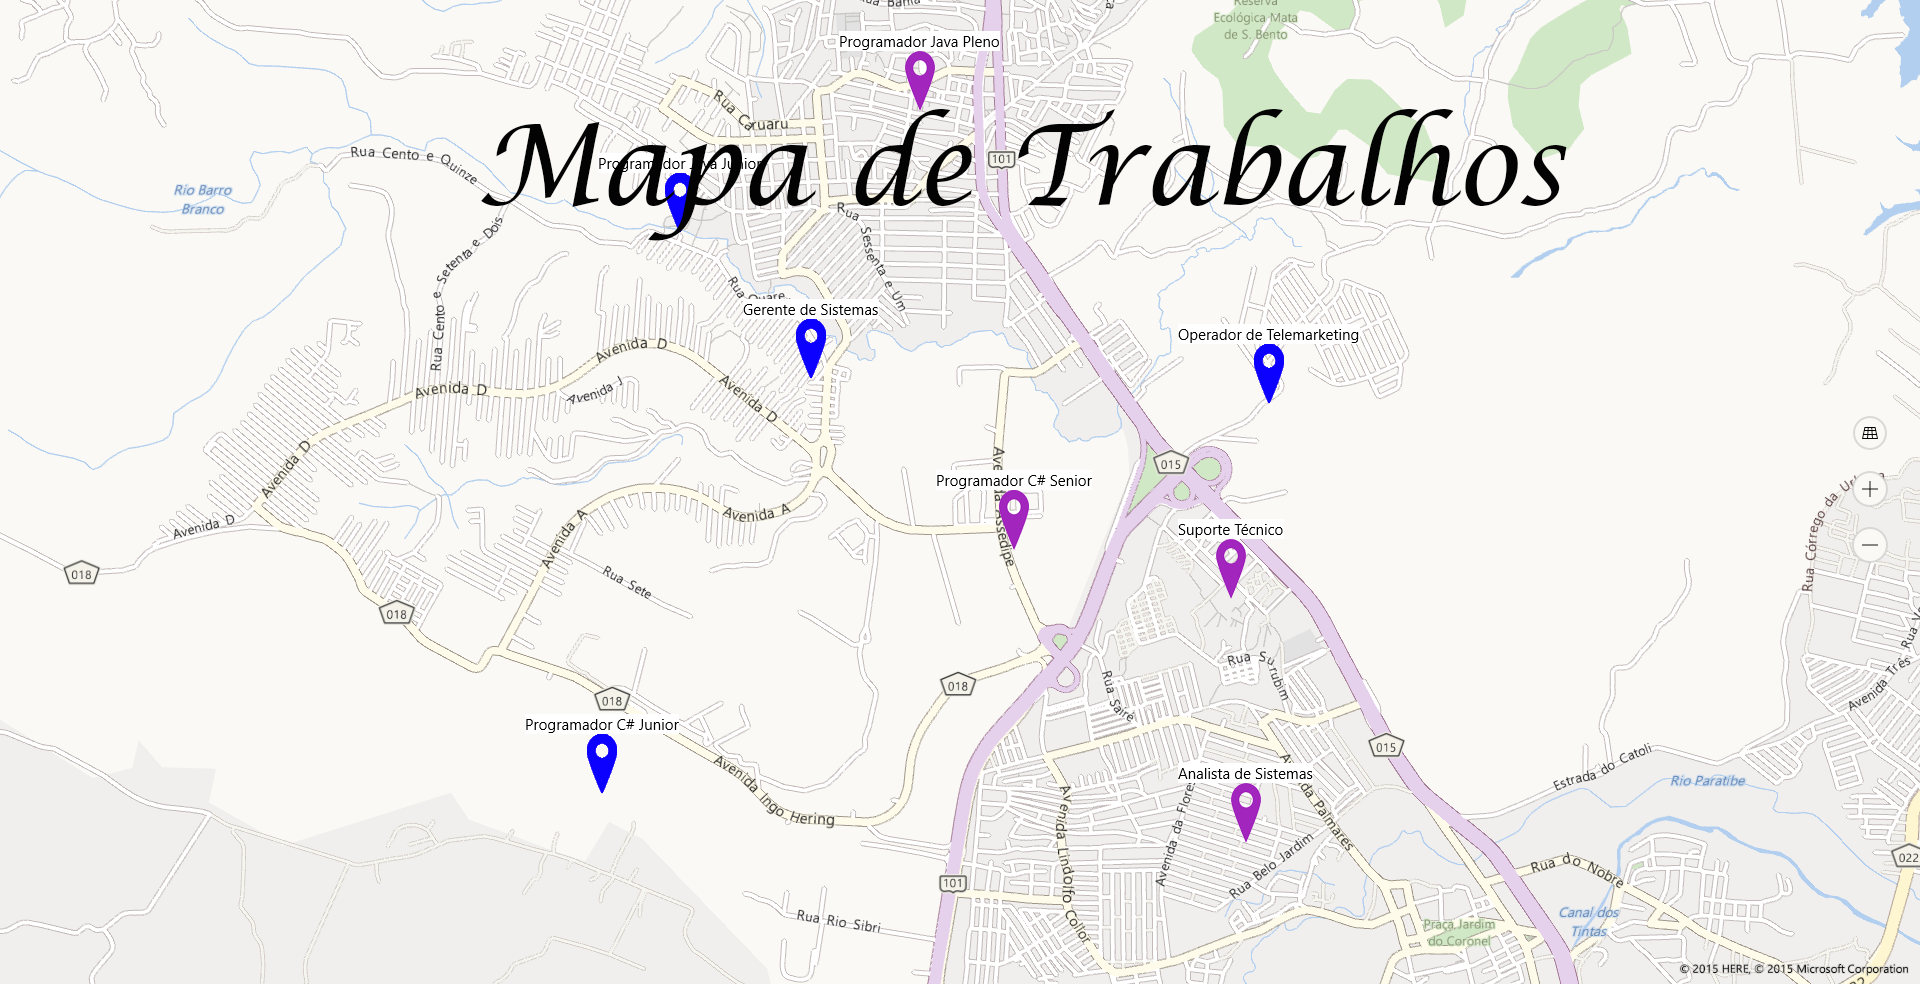
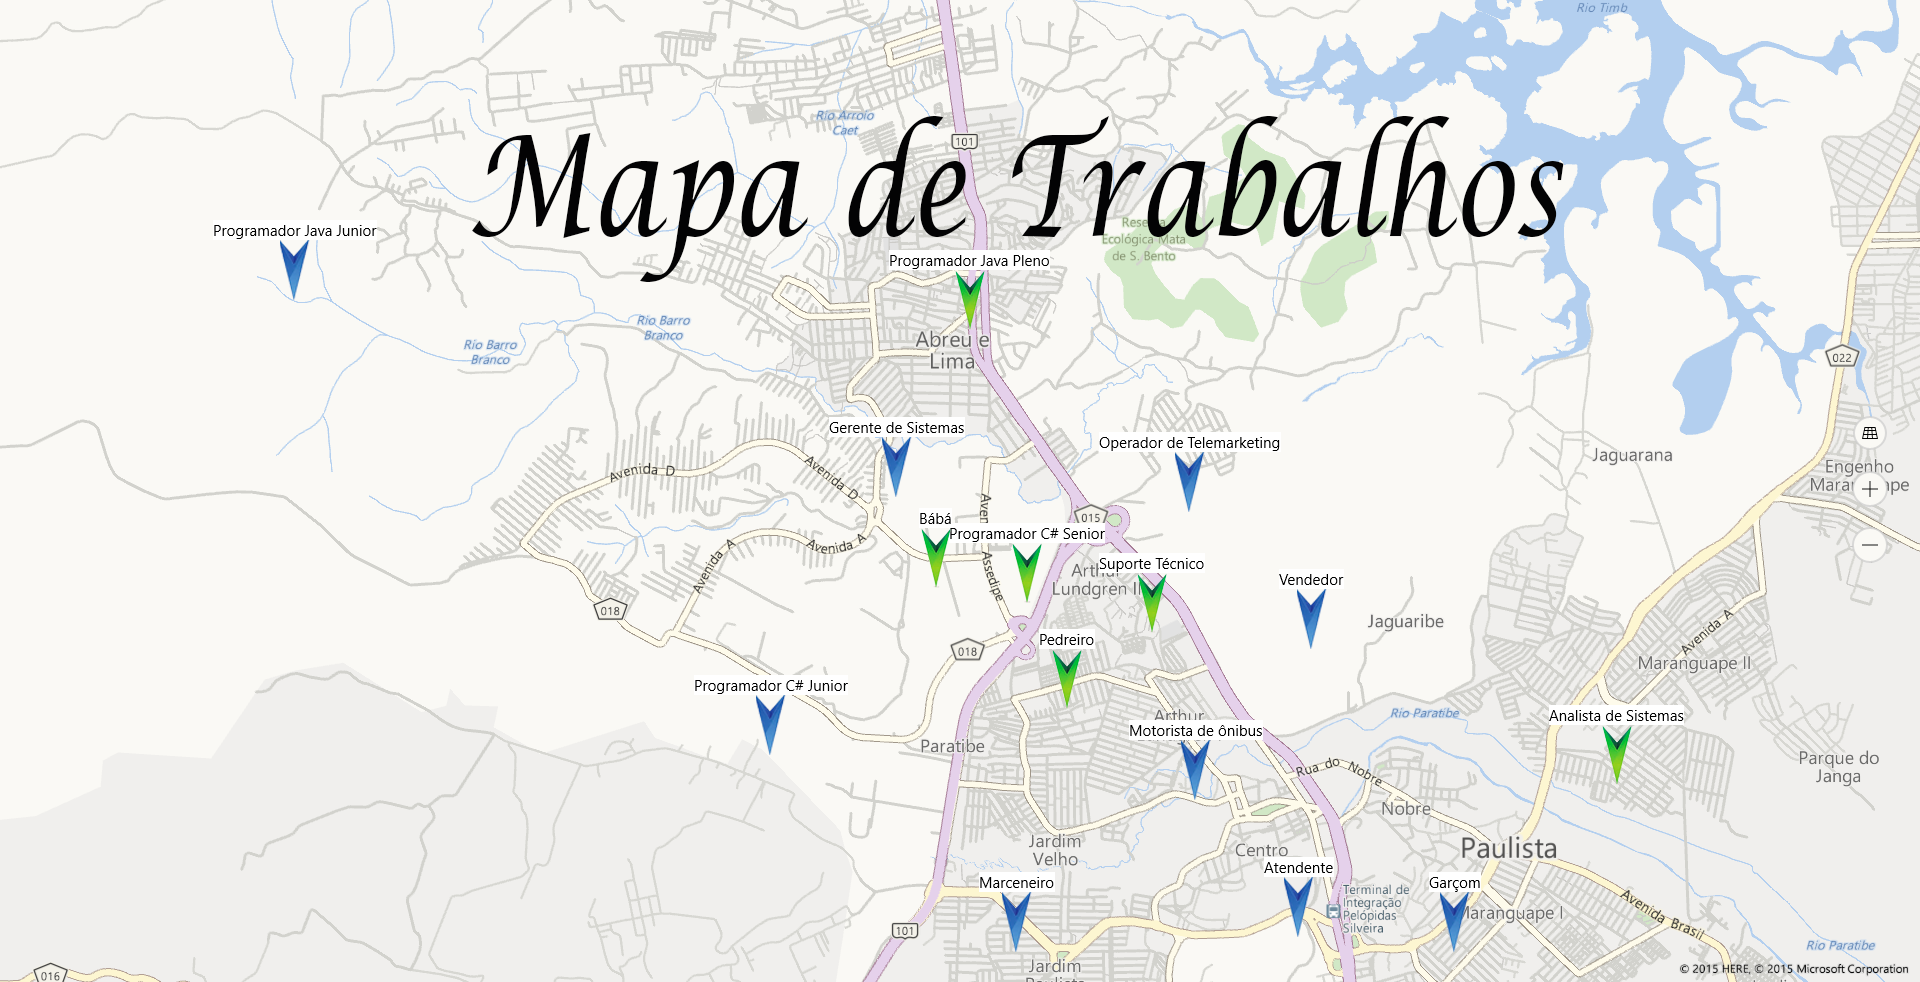
Melhoria dos icones e do background

diff --git a/MapaDeTrabalhos/MainPage.xaml b/MapaDeTrabalhos/MainPage.xaml
@@ -6,11 +6,28 @@
     xmlns:d="http://schemas.microsoft.com/expression/blend/2008"
     xmlns:mc="http://schemas.openxmlformats.org/markup-compatibility/2006"
     mc:Ignorable="d">
-
+    <Page.Resources>
+        <Style TargetType="Button" >
+            <Setter Property="Background" Value="Black"/>
+            <Setter Property="Foreground" Value="White"/>
+            <Setter Property="Width" Value=" 250"/>
+            <Setter Property="FontSize" Value="30"/>
+        </Style>
+        <Style TargetType="TextBox" >
+            <Setter Property="Background" Value="LightBlue"/>
+            <Setter Property="Foreground" Value="White"/>
+        </Style>
+        <Style TargetType="PasswordBox" >
+            <Setter Property="Background" Value="LightBlue"/>
+            <Setter Property="Foreground" Value="White"/>
+        </Style>
+    </Page.Resources>
+    
     <Grid Margin="-5,18,5,-18">
         <Grid.Background>
             <ImageBrush ImageSource="Assets/BackGround.png"/>
         </Grid.Background>
+         
         <Grid.RowDefinitions>
             <RowDefinition Height="163*"/>
             <RowDefinition Height="68*"/>
@@ -23,7 +40,7 @@
         </Grid.RowDefinitions>
         <TextBox x:Name="Tb_login" HorizontalAlignment="Center" Grid.Row="2" TextWrapping="Wrap" VerticalAlignment="Center" PlaceholderText="Digite seu Login." FontSize="30"  Width="368" />
         <PasswordBox x:Name="Tb_senha" HorizontalAlignment="Center"  Grid.Row="3" VerticalAlignment="Center" Width="368" PlaceholderText="Digite sua Senha." FontSize="30" />
-        <Button x:Name="Logar" Content="Logar" HorizontalAlignment="Center" Grid.Row="4" VerticalAlignment="Center" Width="250" FontSize="30" Click="Logar_Click"/>
+        <Button x:Name="Logar" Content="Logar" HorizontalAlignment="Center" Grid.Row="4" VerticalAlignment="Center" Click="Logar_Click"/>
         <Button x:Name="Cadastrar" Content="Cadastrar-se" HorizontalAlignment="Center" Grid.Row="5" Grid.RowSpan="2" VerticalAlignment="Center" FontSize="30" Click="Cadastrar_Click" />
 
     </Grid>

diff --git a/MapaDeTrabalhos/viewModel/PontosNoMapaManeger.cs b/MapaDeTrabalhos/viewModel/PontosNoMapaManeger.cs
@@ -22,8 +22,8 @@ namespace MapaDeTrabalhos.viewModel
                 ImageSourceUri = new Uri("ms-appx:///Assets/MapMarcation.png", UriKind.RelativeOrAbsolute),
                 Location = new Geopoint(new BasicGeoposition()
                 {
-                    Latitude = center.Latitude + 0.005,
-                    Longitude = center.Longitude - 0.005
+                    Latitude = center.Latitude + 0.012,
+                    Longitude = center.Longitude - 0.040
                 })
             });
             pois.Add(new PontoNoMapa()
@@ -83,7 +83,7 @@ namespace MapaDeTrabalhos.viewModel
                 Location = new Geopoint(new BasicGeoposition()
                 {
                     Latitude = center.Latitude - 0.020,
-                    Longitude = center.Longitude + 0.019
+                    Longitude = center.Longitude + 0.049
                 })
             });
             pois.Add(new PontoNoMapa()
@@ -104,6 +104,86 @@ namespace MapaDeTrabalhos.viewModel
                 {
                     Latitude = center.Latitude - 0.001,
                     Longitude = center.Longitude + 0.001
+                })
+            });
+            pois.Add(new PontoNoMapa()
+            {
+                DisplayName = "Marceneiro",
+                ImageSourceUri = new Uri("ms-appx:///Assets/MapMarcation.png", UriKind.RelativeOrAbsolute),
+                Location = new Geopoint(new BasicGeoposition()
+                {
+                    Latitude = center.Latitude - 0.031,
+                    Longitude = center.Longitude + 0.011
+                })
+            });
+            pois.Add(new PontoNoMapa()
+            {
+                DisplayName = "Vendedor",
+                ImageSourceUri = new Uri("ms-appx:///Assets/MapMarcation.png", UriKind.RelativeOrAbsolute),
+                Location = new Geopoint(new BasicGeoposition()
+                {
+                    Latitude = center.Latitude - 0.011,
+                    Longitude = center.Longitude + 0.031
+                })
+            });
+            pois.Add(new PontoNoMapa()
+            {
+                DisplayName = "Motorista de ônibus",
+                ImageSourceUri = new Uri("ms-appx:///Assets/MapMarcation.png", UriKind.RelativeOrAbsolute),
+                Location = new Geopoint(new BasicGeoposition()
+                {
+                    Latitude = center.Latitude - 0.021,
+                    Longitude = center.Longitude + 0.021
+                })
+            });
+            pois.Add(new PontoNoMapa()
+            {
+                DisplayName = "Garçom",
+                ImageSourceUri = new Uri("ms-appx:///Assets/MapMarcation.png", UriKind.RelativeOrAbsolute),
+                Location = new Geopoint(new BasicGeoposition()
+                {
+                    Latitude = center.Latitude - 0.031,
+                    Longitude = center.Longitude + 0.041
+                })
+            });
+            pois.Add(new PontoNoMapa()
+            {
+                DisplayName = "Pedreiro",
+                ImageSourceUri = new Uri("ms-appx:///Assets/MapMarcation2.png", UriKind.RelativeOrAbsolute),
+                Location = new Geopoint(new BasicGeoposition()
+                {
+                    Latitude = center.Latitude - 0.015,
+                    Longitude = center.Longitude + 0.015
+                })
+            });
+            pois.Add(new PontoNoMapa()
+            {
+                DisplayName = "Eletricista",
+                ImageSourceUri = new Uri("ms-appx:///Assets/MapMarcation2.png", UriKind.RelativeOrAbsolute),
+                Location = new Geopoint(new BasicGeoposition()
+                {
+                    Latitude = center.Latitude - 0.040,
+                    Longitude = center.Longitude + 0.020
+                })
+            });
+            pois.Add(new PontoNoMapa()
+            {
+                DisplayName = "Bábá",
+                ImageSourceUri = new Uri("ms-appx:///Assets/MapMarcation2.png", UriKind.RelativeOrAbsolute),
+                Location = new Geopoint(new BasicGeoposition()
+                {
+                    Latitude = center.Latitude - 0.007,
+                    Longitude = center.Longitude + 0.007
+                })
+            });
+            pois.Add(new PontoNoMapa()
+            {
+                DisplayName = "Atendente",
+                ImageSourceUri = new Uri("ms-appx:///Assets/MapMarcation.png", UriKind.RelativeOrAbsolute),
+                Location = new Geopoint(new BasicGeoposition()
+                {
+                    Latitude = center.Latitude - 0.030,
+                    Longitude = center.Longitude + 0.030
                 })
             });
             return pois;
